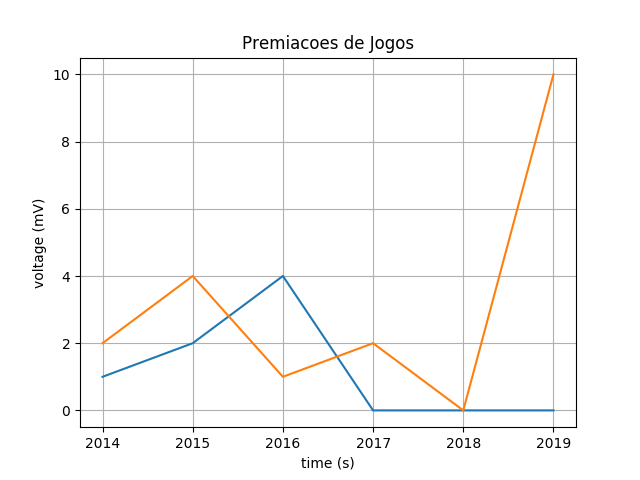
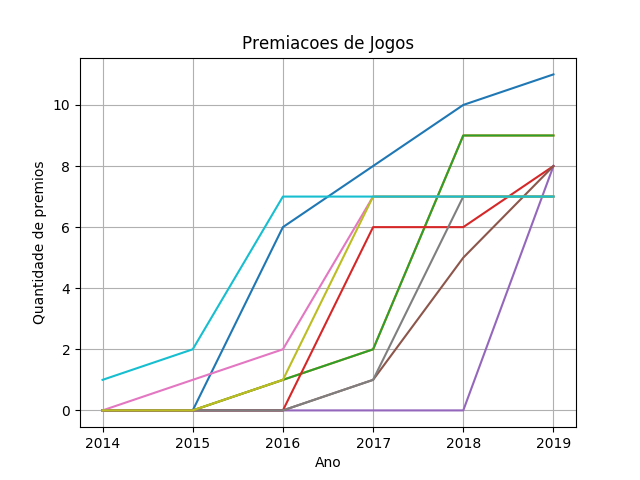
Aula4 finalizada

diff --git a/aula4/aula4.py b/aula4/aula4.py
@@ -1,40 +1,5 @@
 # coding: utf-8
 
-# import pandas as pd
-# import matplotlib.pyplot as plt
-# import numpy as np
-
-# csv = pd.read_csv('./util/the_game_awards.csv', converters={i: str for i in range(100)})
-# csv = csv.groupby(['nominee']).size().reset_index(name='count')
-# csv = csv.sort_values(by=['count'], ascending=False).head(10)
-
-# Montando gráfico
-
-# labels = []
-# means = []
-
-# width = 0.35
-# x = np.arange(len(labels))
-# fig, ax = plt.subplots()
-
-# for i in range(10):
-#   labels.append(csv[i:i + 1]['nominee'].iloc[0])
-#   means.append(csv[i:i + 1]['count'].iloc[0])
-
-#   react = ax.bar(i * 0.4, means[i], width, label=labels[i])
-
-
-# ax.set_title("Jogos com mais premiacoes oficiais")
-# ax.set_ylabel('Quantidade de premios')
-
-# ax.set_xticks(x)
-# ax.set_xticklabels(labels)
-
-# ax.legend()
-
-# fig.tight_layout()
-# plt.show()
-
 import pandas as pd
 import matplotlib.pyplot as plt
 import numpy as np
@@ -44,6 +9,7 @@ csv = pd.read_csv('./util/the_game_awards.csv', converters={i: str for i in rang
 anos = csv['year'].unique()
 jogos = csv.groupby(['nominee']).size().reset_index(name='count')
 jogos = jogos.sort_values(by=['count'], ascending=False).head(10)
+premios = []
 
 # Desenhando o gráfico
 
@@ -54,23 +20,20 @@ def buscaPremios(jogo, ano):
   result = result.loc[result.year == ano, 'year'].count()
   return result
 
-for ano in anos:
-  for jogo in jogos['nominee']:
-    qtdPremio = buscaPremios(jogo, ano)
-    print(jogo, ano, qtdPremio)
-  
 
-s = [1, 2, 4, 0, 0, 0]
-a = [2, 4, 1, 2, 0, 10]
-
-ax.plot(anos, s)
-ax.plot(anos, a)
+for jogo in jogos['nominee']:
+  qtdPremio = 0
+  for ano in anos:
+    qtdPremio += buscaPremios(jogo, ano)
+    premios.append(qtdPremio)
+  ax.plot(anos, premios, label=jogo)
+  premios = []
 
 ax.set_xticklabels(anos)
 
-ax.set(xlabel='time (s)', ylabel='voltage (mV)')
+ax.set(xlabel='Ano', ylabel='Quantidade de premios')
 ax.set_title('Premiacoes de Jogos')
 ax.grid()
 
 fig.savefig("grafico_aula4.png")
-# plt.show()
+plt.show()
